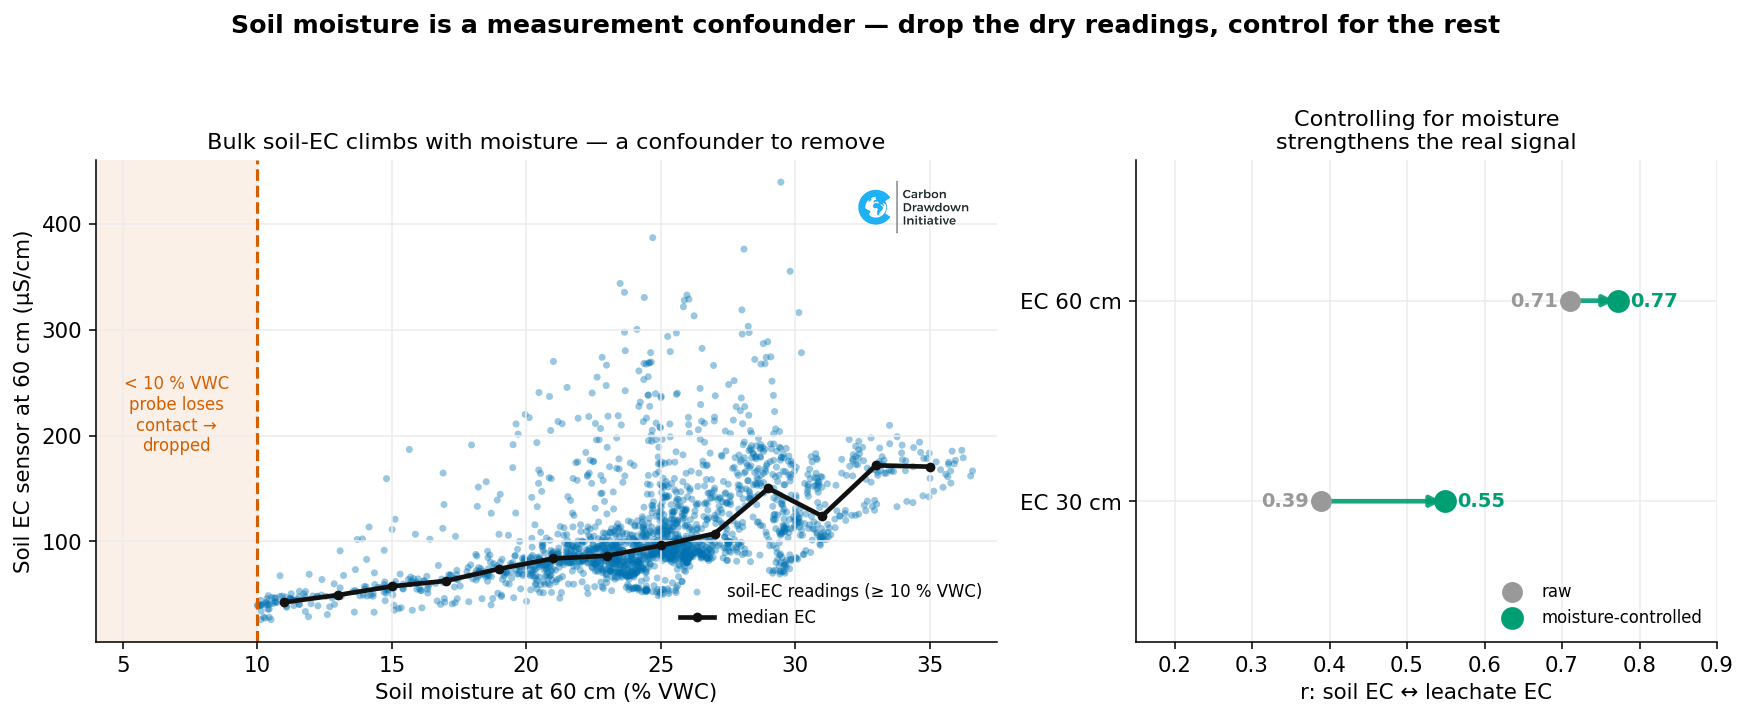
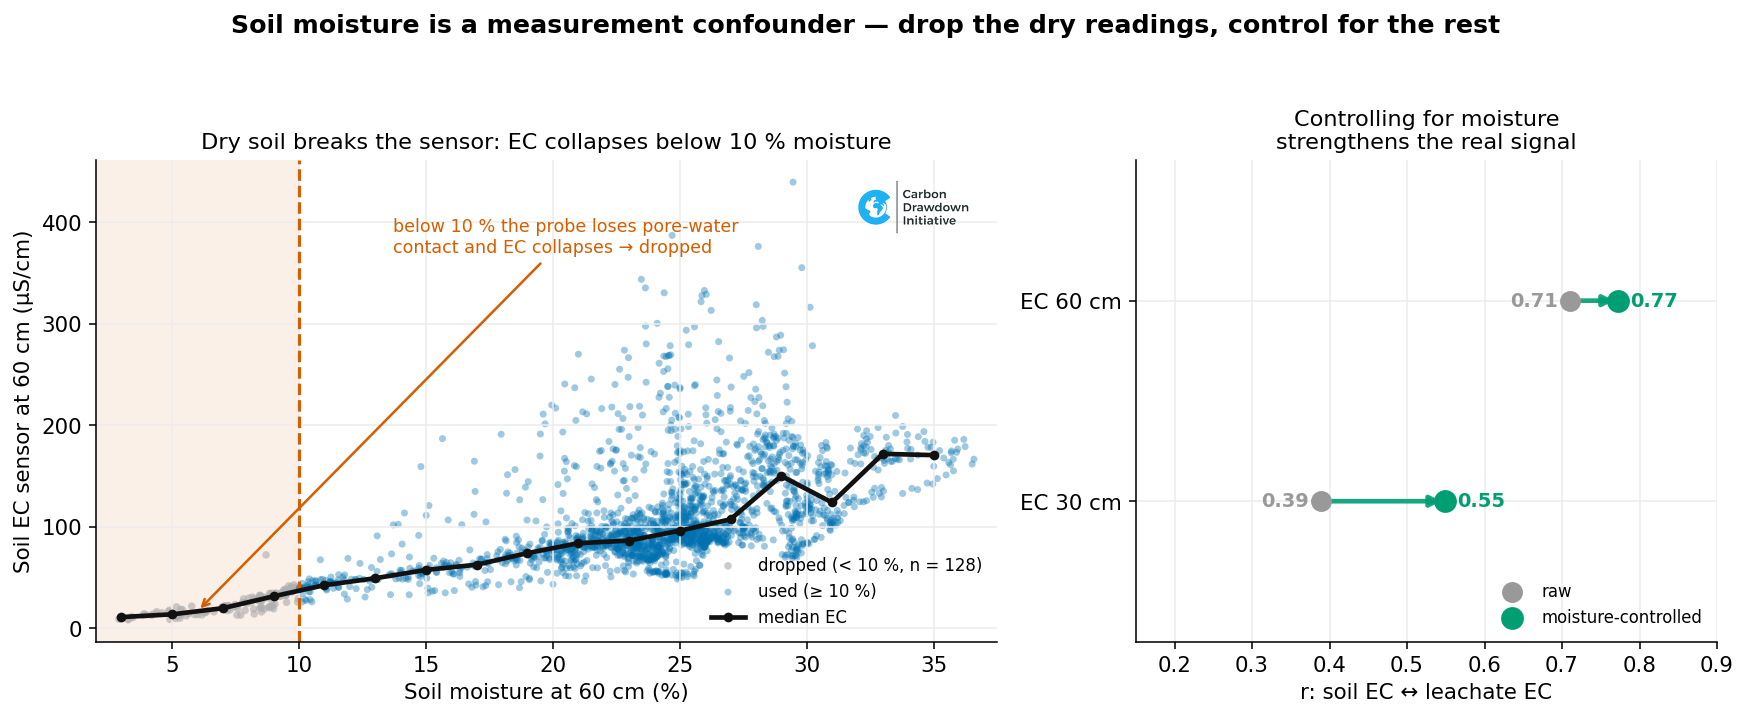
story_4: show sub-10% raw readings (EC collapse) to justify the 10% cutoff; drop 'VWC'

diff --git a/code/xxl_lysimeter_story_figures.py b/code/xxl_lysimeter_story_figures.py
@@ -208,14 +208,39 @@ def main():
     # ===== FIGURE 4: moisture confounder (redesigned) ========================
     fig, (a0, a1) = plt.subplots(1, 2, figsize=(12.5, 5.2),
                                  gridspec_kw=dict(width_ratios=[1.55, 1]))
-    g = potsens.dropna(subset=["soil_ec_60cm", "soil_moisture_60cm_pct"])
-    xm = g["soil_moisture_60cm_pct"].to_numpy(); ym = g["soil_ec_60cm"].to_numpy()
-    xlo, xhi = 4.0, np.ceil(xm.max()) + 0.5
+    # RAW sensor data (NOT the 10 %-dryness-filtered weekly series) so we can show the
+    # sub-10 % readings where the buried probe loses contact and EC collapses.
+    import re as _re
+
+    def _raw60(fname, lo=None, hi=None):
+        df = pd.read_excel(MON / fname); df.columns = [str(c).strip() for c in df.columns]
+        df["date"] = pd.to_datetime(df["Zeitstempel"], errors="coerce").dt.normalize()
+        cols = [c for c in df.columns if c.startswith("EC.60")]
+        m = df.melt("date", value_vars=cols, var_name="col", value_name="v").dropna(subset=["v"])
+        m["v"] = pd.to_numeric(m["v"], errors="coerce")
+        if lo is not None:
+            m = m[m["v"] >= lo]
+        if hi is not None:
+            m = m[m["v"] <= hi]
+
+        def _pot(c):
+            mm = _re.search(r"\((?:was|aka)\s*(\d{3}\.[A-E])\)", c) or _re.search(r"(\d{3}\.[A-E])", c)
+            return mm.group(1) if mm else None
+        m["pot"] = m["col"].map(_pot)
+        return m.dropna(subset=["pot"]).groupby(["date", "pot"])["v"].mean()
+
+    gg = pd.concat([_raw60("soil_moisture_60cm.xlsx", lo=2.5).rename("moist"),
+                    _raw60("soil_ec_60cm.xlsx", lo=1, hi=2000).rename("ec")], axis=1).dropna()
+    xm = gg["moist"].to_numpy(); ym = gg["ec"].to_numpy()
+    dry = xm < 10
+    xlo, xhi = 2.0, np.ceil(xm.max()) + 0.5
     a0.set_xlim(xlo, xhi)
     a0.axvspan(xlo, 10, color=OK["verm"], alpha=0.09, lw=0)
-    a0.scatter(xm, ym, s=13, color=OK["blue"], alpha=0.40, edgecolors="none",
-               label="soil-EC readings (≥ 10 % VWC)")
-    edges = np.arange(np.floor(xm.min()), np.ceil(xm.max()) + 2, 2.0)         # median-EC trend
+    a0.scatter(xm[dry], ym[dry], s=15, color="#b0b0b0", alpha=0.65, edgecolors="none",
+               label=f"dropped (< 10 %, n = {int(dry.sum())})")
+    a0.scatter(xm[~dry], ym[~dry], s=13, color=OK["blue"], alpha=0.38, edgecolors="none",
+               label="used (≥ 10 %)")
+    edges = np.arange(2, np.ceil(xm.max()) + 2, 2.0)                          # median-EC trend
     bx, by = [], []
     for lo, hi in zip(edges[:-1], edges[1:]):
         m = (xm >= lo) & (xm < hi)
@@ -223,11 +248,14 @@ def main():
             bx.append((lo + hi) / 2); by.append(np.median(ym[m]))
     a0.plot(bx, by, "-o", color="#111111", lw=2.4, ms=4, zorder=6, label="median EC")
     a0.axvline(10, color=OK["verm"], ls="--", lw=1.6)
-    a0.text(7.0, float(np.nanmax(ym)) * 0.5, "< 10 % VWC\nprobe loses\ncontact →\ndropped",
-            ha="center", va="center", fontsize=8.5, color=OK["verm"])
-    a0.set_xlabel("Soil moisture at 60 cm (% VWC)")
+    a0.annotate("below 10 % the probe loses pore-water\ncontact and EC collapses → dropped",
+                xy=(6, float(np.median(ym[(xm >= 4) & (xm < 8)]))),
+                xytext=(0.33, 0.88), textcoords="axes fraction",
+                fontsize=9, color=OK["verm"], ha="left", va="top",
+                arrowprops=dict(arrowstyle="->", color=OK["verm"], lw=1.3))
+    a0.set_xlabel("Soil moisture at 60 cm (%)")
     a0.set_ylabel("Soil EC sensor at 60 cm (µS/cm)")
-    a0.set_title("Bulk soil-EC climbs with moisture — a confounder to remove", fontsize=11.5)
+    a0.set_title("Dry soil breaks the sensor: EC collapses below 10 % moisture", fontsize=11.5)
     a0.legend(frameon=False, fontsize=8.5, loc="lower right")
 
     # ---- right: raw → moisture-controlled r as a dumbbell ----